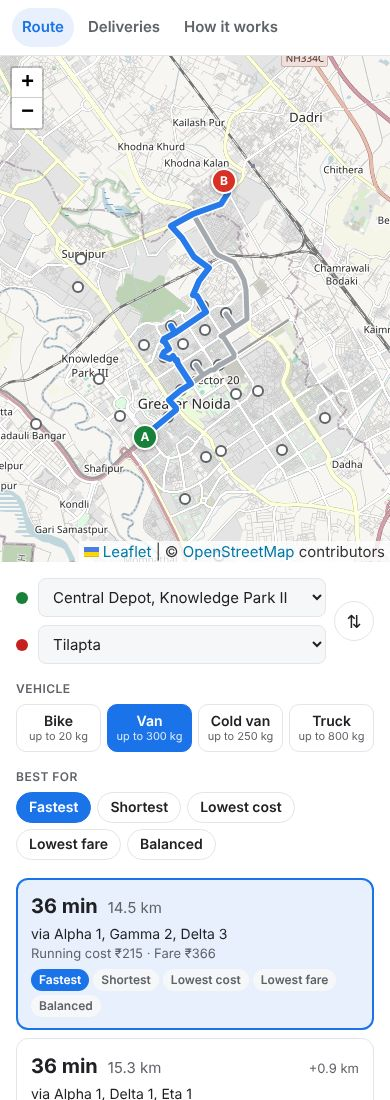
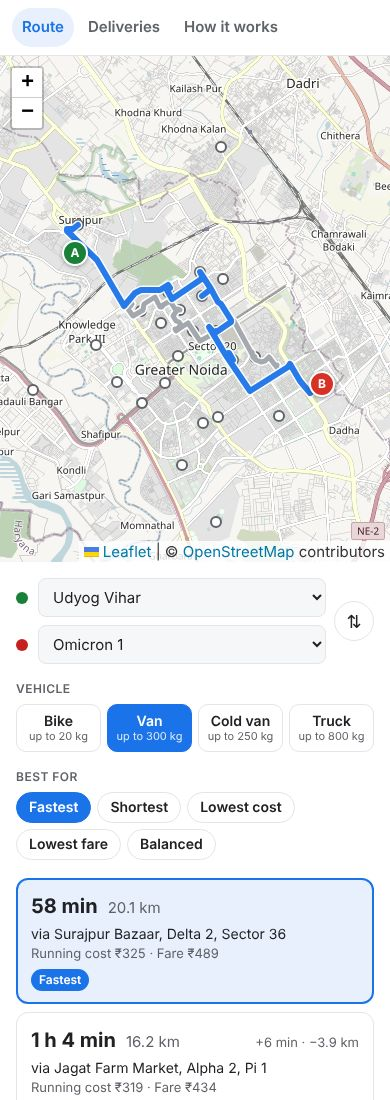
Open the route screen on a trip with three different route options

Changed region(s): [[0.0, 0.0309, 1.0, 0.6182], [0.0308, 0.8964, 0.9846, 1.0], [0.0923, 0.8036, 0.8308, 0.8964]]

diff --git a/js/ui/routeView.js b/js/ui/routeView.js
@@ -25,7 +25,7 @@ function segmented(items, value, onPick, cls = '') {
 export function renderRoute(root, { world }) {
   const { graph, net, frames } = world;
   const places = [...graph.nodes.values()].sort((a, b) => a.name.localeCompare(b.name));
-  const st = { from: 'N0', to: 'N24', vehicle: 'Van', goal: 'fastest', selected: 0 };
+  const st = { from: 'N22', to: 'N15', vehicle: 'Van', goal: 'fastest', selected: null };
 
   const placeSelect = (key) => {
     const el = h('select', { 'aria-label': key === 'from' ? 'Start' : 'Destination', onchange: (e) => { st[key] = e.target.value; update(); } },
